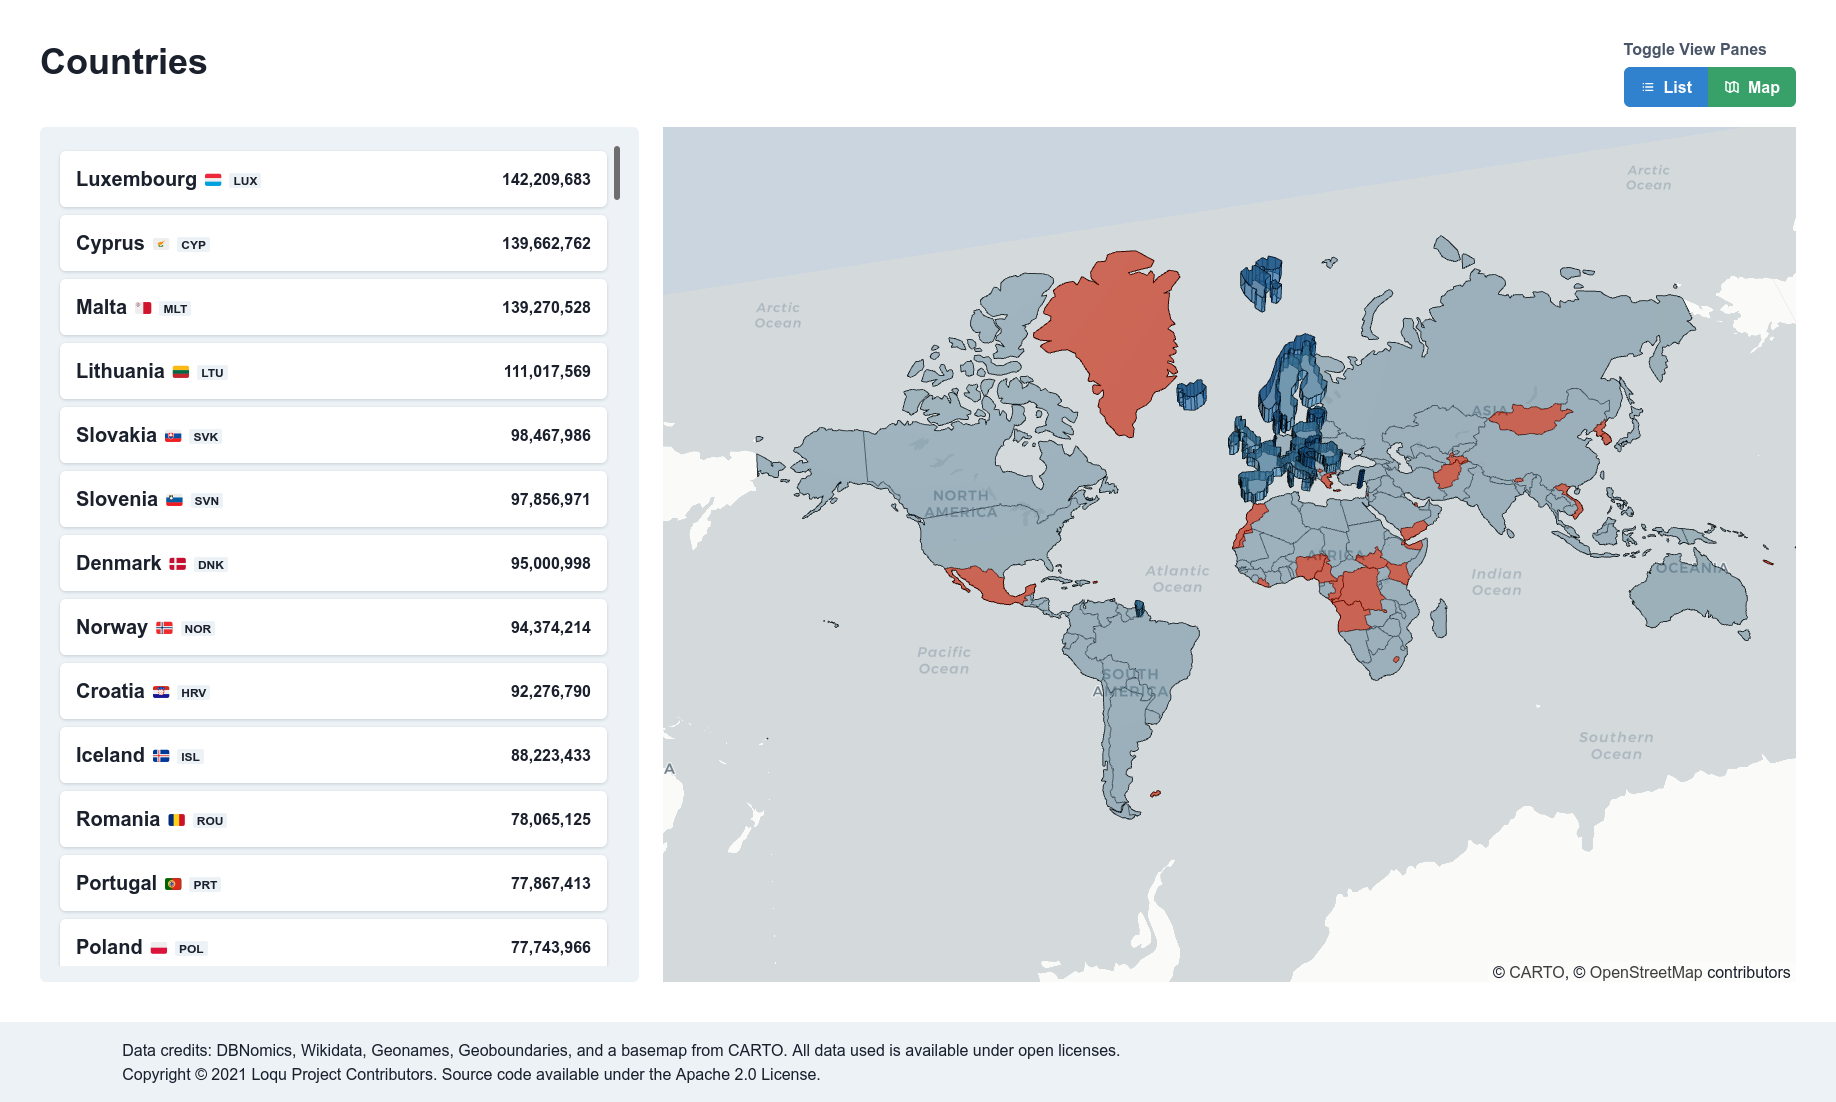
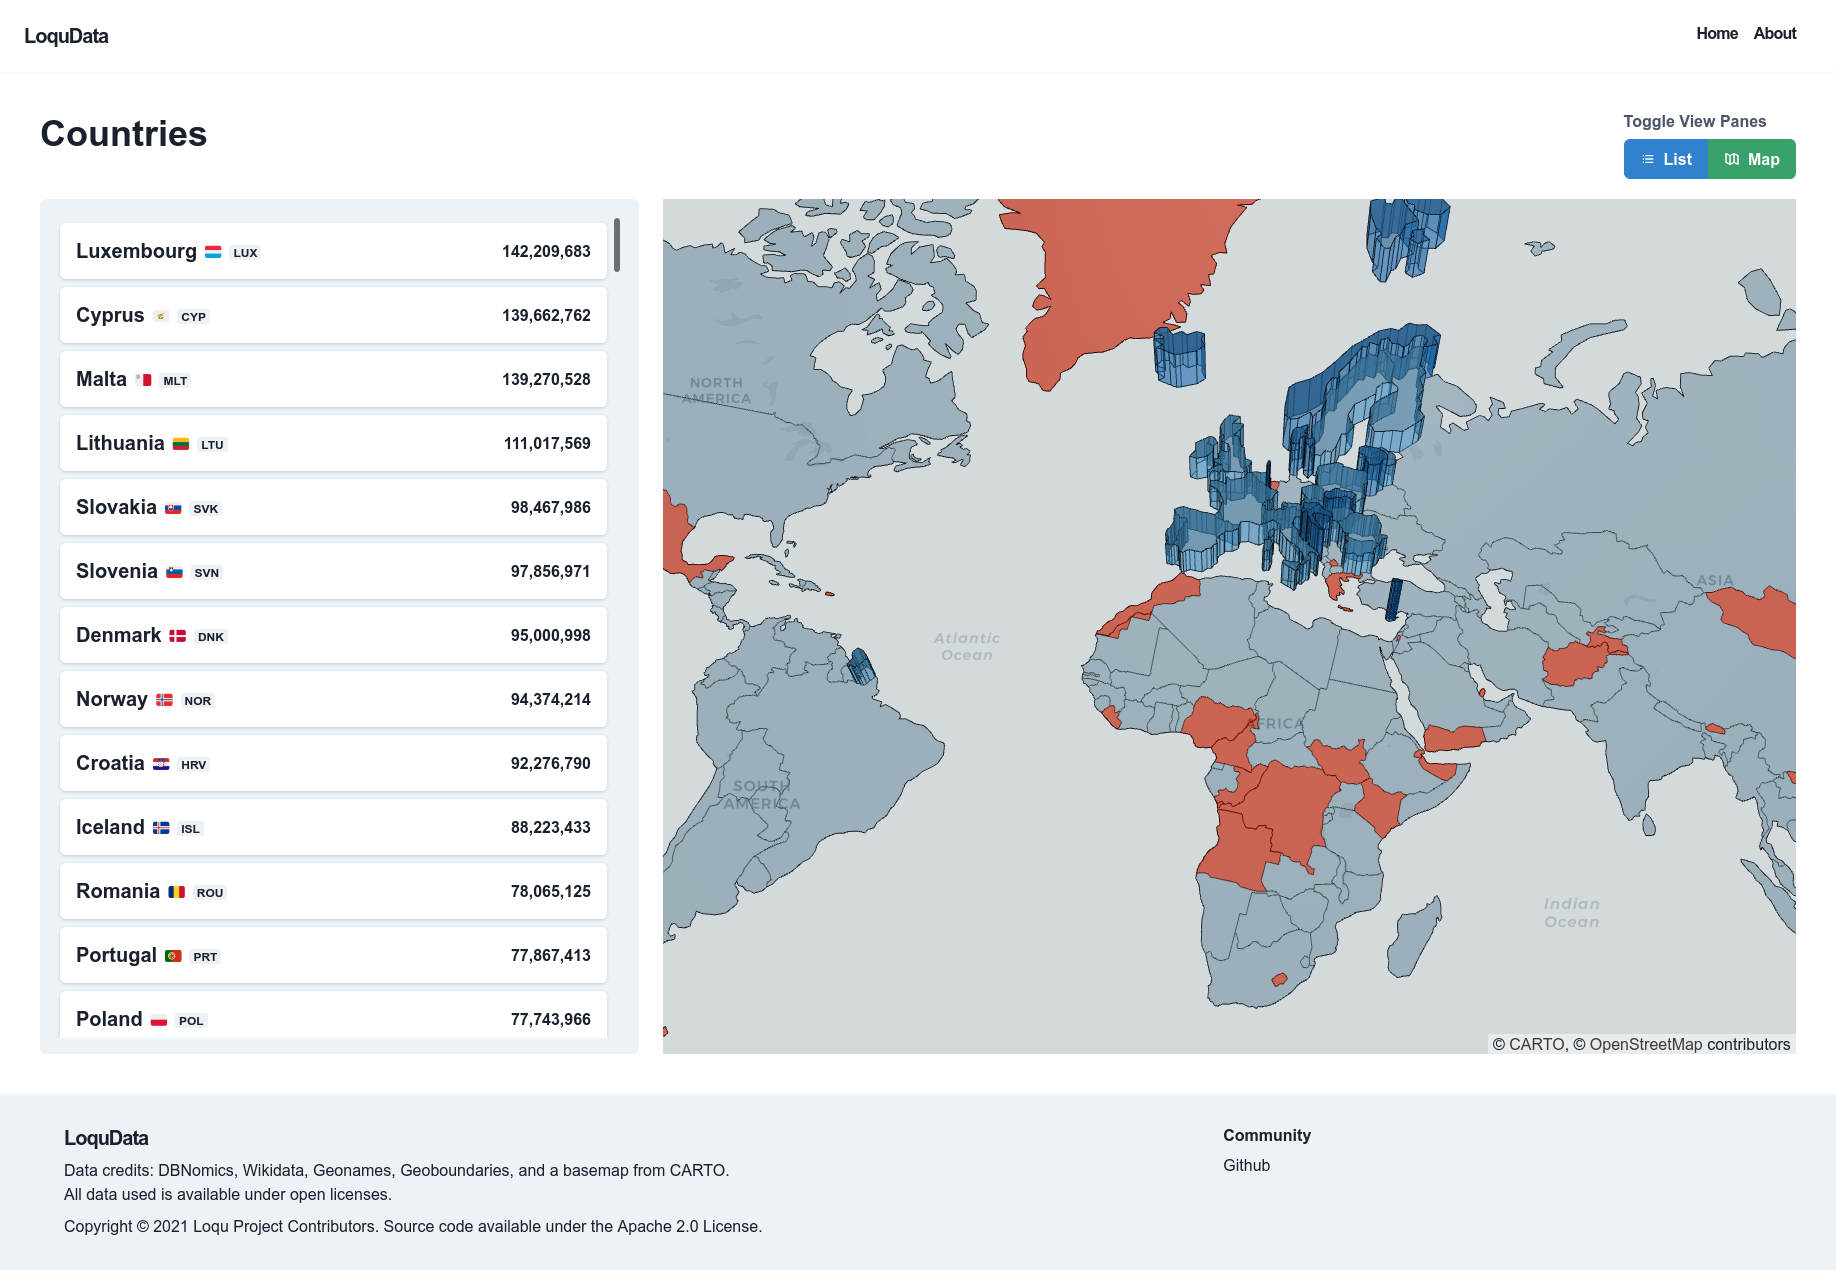
update images, about, and readme

diff --git a/README.md b/README.md
@@ -1,2 +1,19 @@
 # Loqu Frontend
 
+[Loqu](https://loqudata.org/) is a 100% open source tool for data exploration and visualization, and includes 700 million data series from organizations from around the world.
+
+Loqu decreases the time between looking for data and starting to analyze it. Now you can avoid trawling through public data catalogs, downloading many CSV files, and then having to load them into a separate tool just to visualize the data.
+
+You can learn more on the [About page](https://loqudata.org/about) or by [reading the paper](https://alexkreidler.github.io/loqu-paper/).
+
+## Screenshots
+
+![Countries View](public/images/countries.png)
+
+![Dataset View](public/images/dataset.png)
+
+![Visualize Data Cube View](public/images/visualize.png)
+
+## License
+
+The source code is available under the Apache 2.0 License. Data is available under the Open Database License.
